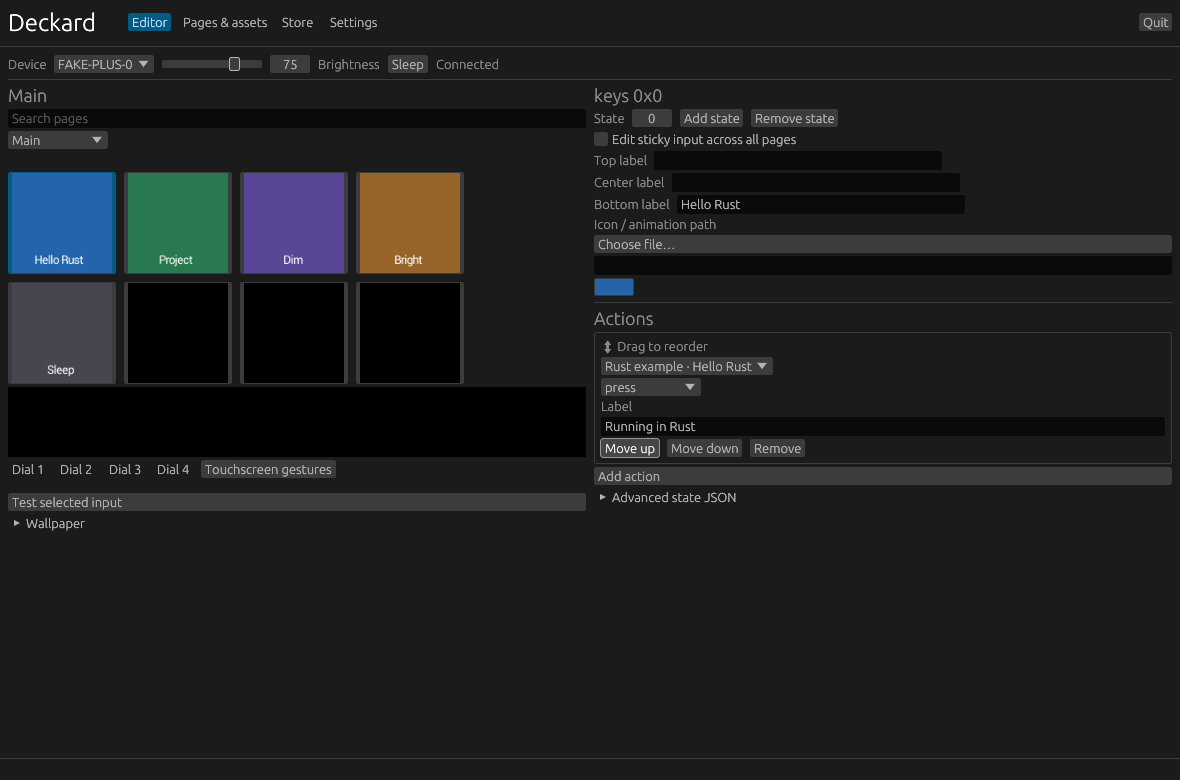
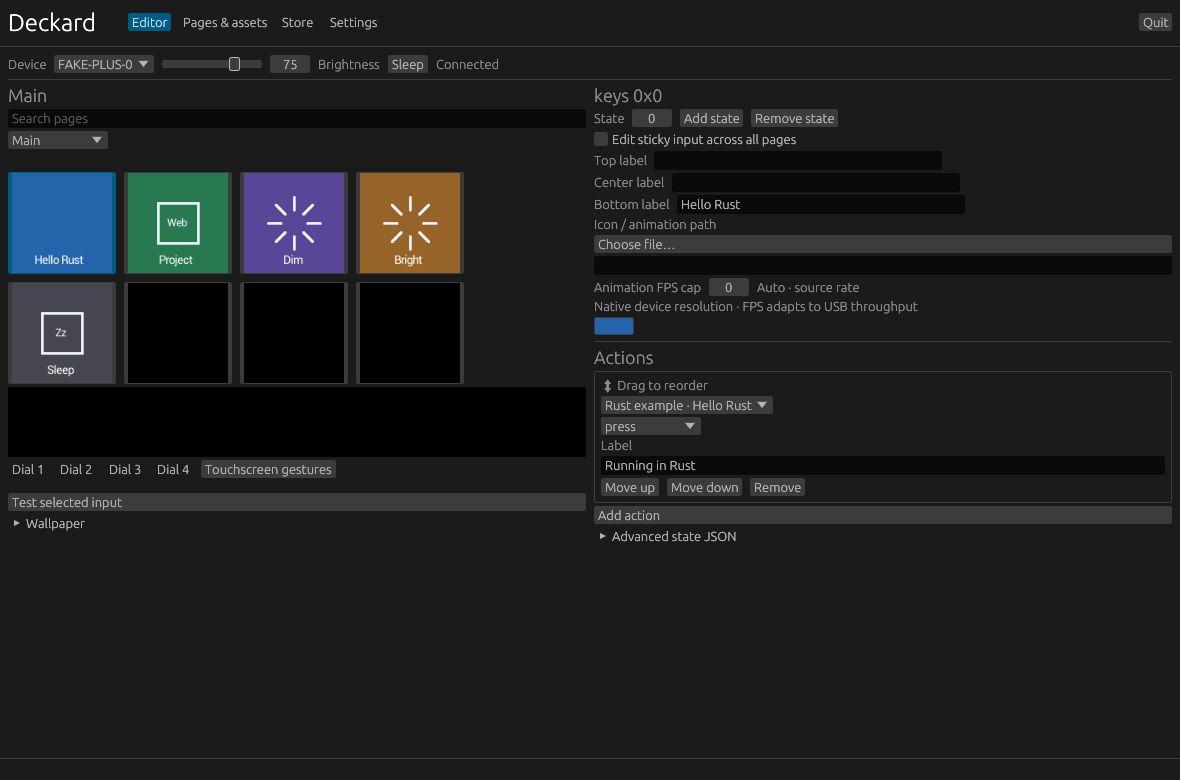
Verify published 0.6.0 bundles and show native Auto FPS controls

diff --git a/benchmarks/results/2026-10-06/endpoints/README.md b/benchmarks/results/2026-10-06/endpoints/README.md
@@ -7,3 +7,5 @@
 [provenance.json](provenance.json) ties each measured executable to its frozen runtime sources and SHA-256. The dirty-tree flags in visible/model metadata refer only to methodology documentation edits. Runtime sources and executables remained unchanged. These are host-built x86-64 application measurements without physical USB hardware, rather than ARM benchmarks or LCD refresh measurements.
 
 FPS counts actual changing rendered pixels on every key. CPU is percent of one logical core and RAM is MiB PSS, including application descendants. CPU milliseconds per complete device frame equal `CPU percent × 10 / FPS`. Higher total CPU at higher FPS can coexist with lower CPU cost per frame. Visible measurements exclude the private compositor and count controller rendering, rather than monitor presentations.
+
+[Release validation](release-validation.json) records both architectures' completed package checks, published asset digests, live download links and a separate GPU/fake-device fidelity check of the actual downloaded x86-64 portable bundle. Its short frame check is excluded from CPU/RAM comparisons.
